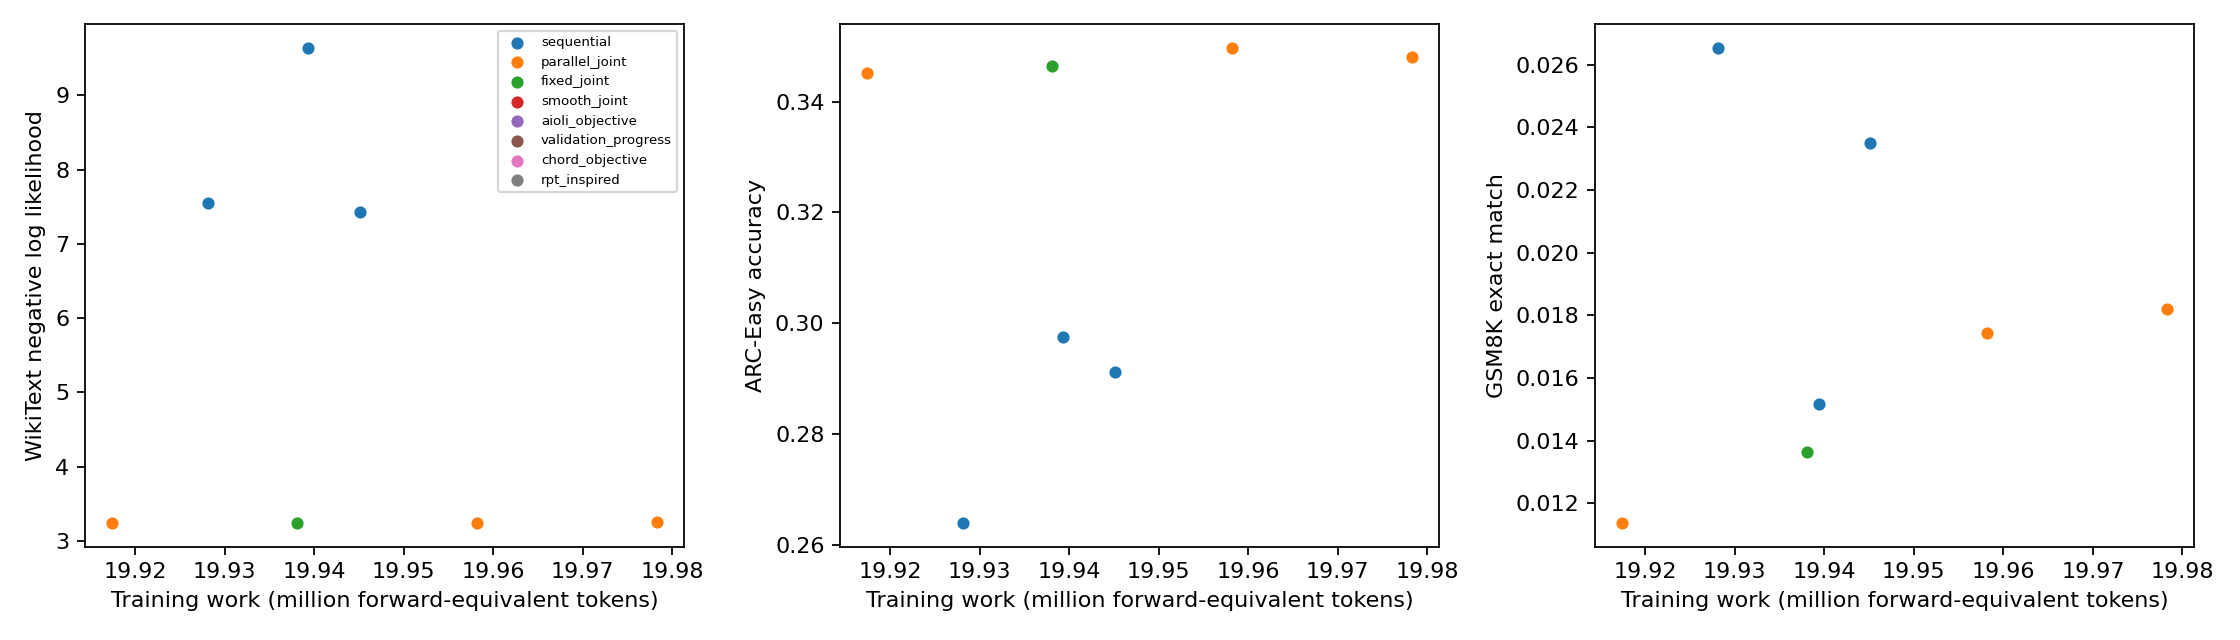
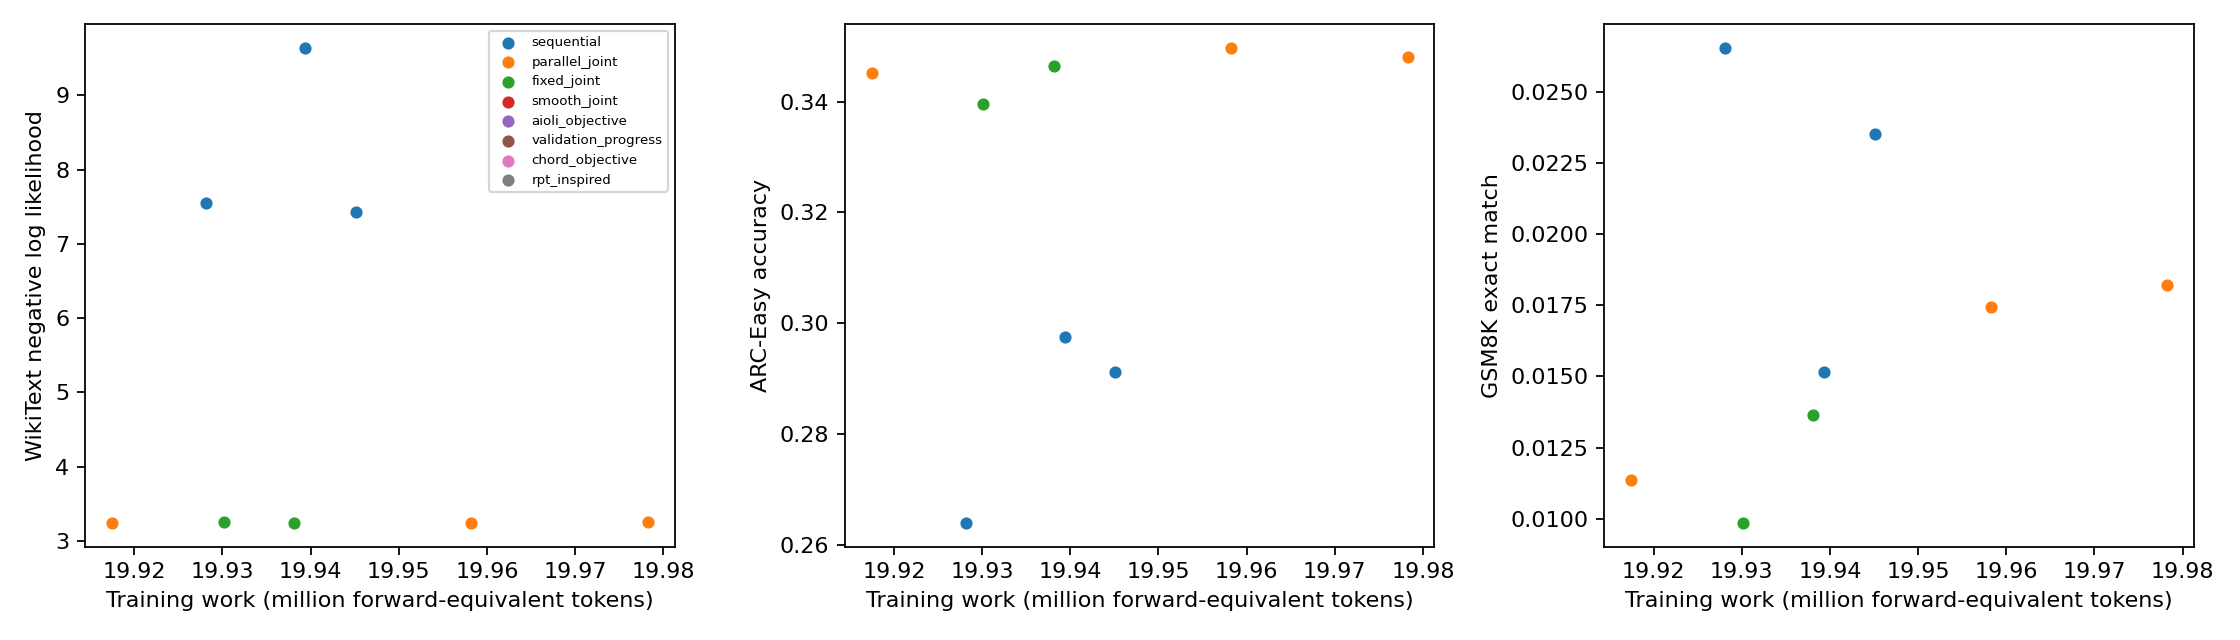
Report verified unified-training pilot progress

diff --git a/experiments/02_early_checkpoint_joint_objectives/results.md b/experiments/02_early_checkpoint_joint_objectives/results.md
@@ -11,7 +11,7 @@
 | parallel_joint | 1 | complete | 19.917 | 0.3451 [0.3263, 0.3645] | 0.0114 [0.0069, 0.0187] | 3.2442 [3.2150, 3.2729] | 0.6016 [0.5405, 0.6596] / 0.5508 [0.4895, 0.6105] |
 | parallel_joint | 2 | complete | 19.958 | 0.3497 [0.3308, 0.3692] | 0.0174 [0.0116, 0.0260] | 3.2424 [3.2127, 3.2711] | 0.5859 [0.5248, 0.6446] / 0.4688 [0.4085, 0.5299] |
 | fixed_joint | 0 | complete | 19.938 | 0.3464 [0.3275, 0.3657] | 0.0136 [0.0086, 0.0215] | 3.2422 [3.2119, 3.2719] | 0.6055 [0.5445, 0.6634] / 0.5039 [0.4431, 0.5646] |
-| fixed_joint | 1 | pending | unavailable | unavailable | unavailable | unavailable | unavailable |
+| fixed_joint | 1 | complete | 19.930 | 0.3396 [0.3209, 0.3589] | 0.0099 [0.0058, 0.0168] | 3.2500 [3.2201, 3.2790] | 0.5898 [0.5287, 0.6483] / 0.5117 [0.4508, 0.5723] |
 | fixed_joint | 2 | pending | unavailable | unavailable | unavailable | unavailable | unavailable |
 | smooth_joint | 0 | pending | unavailable | unavailable | unavailable | unavailable | unavailable |
 | smooth_joint | 1 | pending | unavailable | unavailable | unavailable | unavailable | unavailable |
@@ -33,7 +33,7 @@ NLL = negative log likelihood; preference raw ordering is the preference endpoin
 
 Intervals: 95% Wilson binary-item score, conditional on each trained model; p-val=n/a (no hypothesis test). Three seeds do not establish universal superiority. Aioli, CHORD (Controllable Harmonization of On- and Off-Policy Reinforcement Learning via Dynamic Weighting), and RPT (Reinforcement Pre-Training) are declared adaptations; exact CHERRY-RL identity remains unresolved.
 
-Complete: 7/24. See `expt_v1/PROTOCOL.md` and the program review reconciliation.
+Complete: 8/24. See `expt_v1/PROTOCOL.md` and the program review reconciliation.
 
 Seed uncertainty, two-stage seed/item intervals, initial-checkpoint changes and all paired comparisons: `expt_v1/analysis.json`. Missing trained seeds remain missing with separate accuracy sensitivity bounds. p-val=n/a throughout; no formal superiority verdict.
 

diff --git a/experiments/00_program/FINAL_STATUS.md b/experiments/00_program/FINAL_STATUS.md
@@ -1,6 +1,6 @@
 # Full-program status
 
-Verified cells: 31/48; failed: 0; interrupted: 0; pending: 17; unstarted at global bound: 0.
+Verified cells: 32/48; failed: 0; interrupted: 0; pending: 16; unstarted at global bound: 0.
 
 Full-program execution is incomplete. Required plan and implementation findings are reconciled; see acceptance.json.
 Results and uncertainty are in each experiment folder; no universal-superiority claim.
